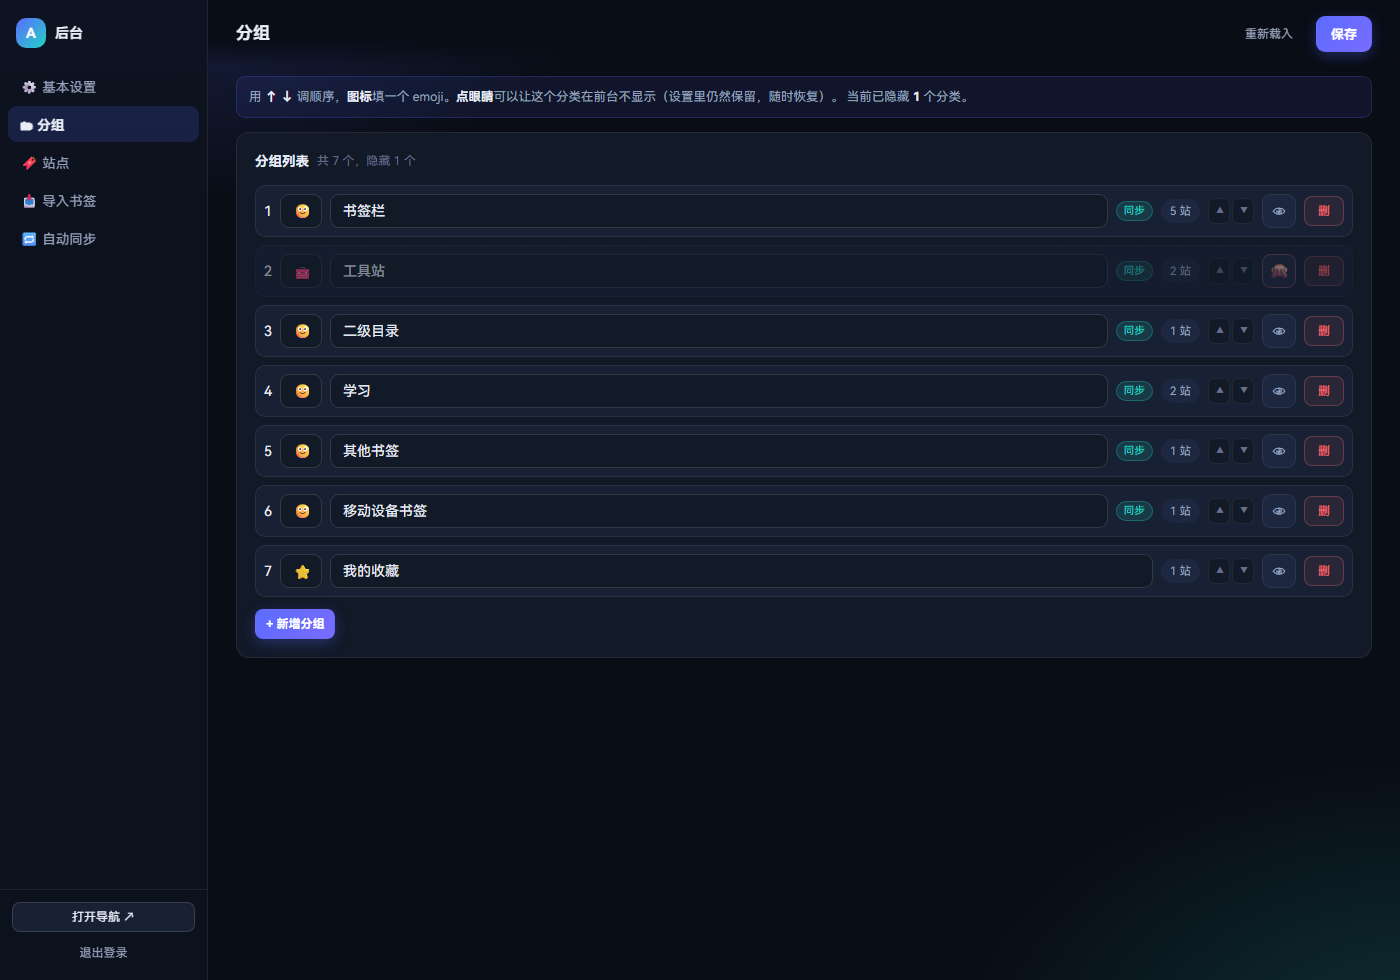
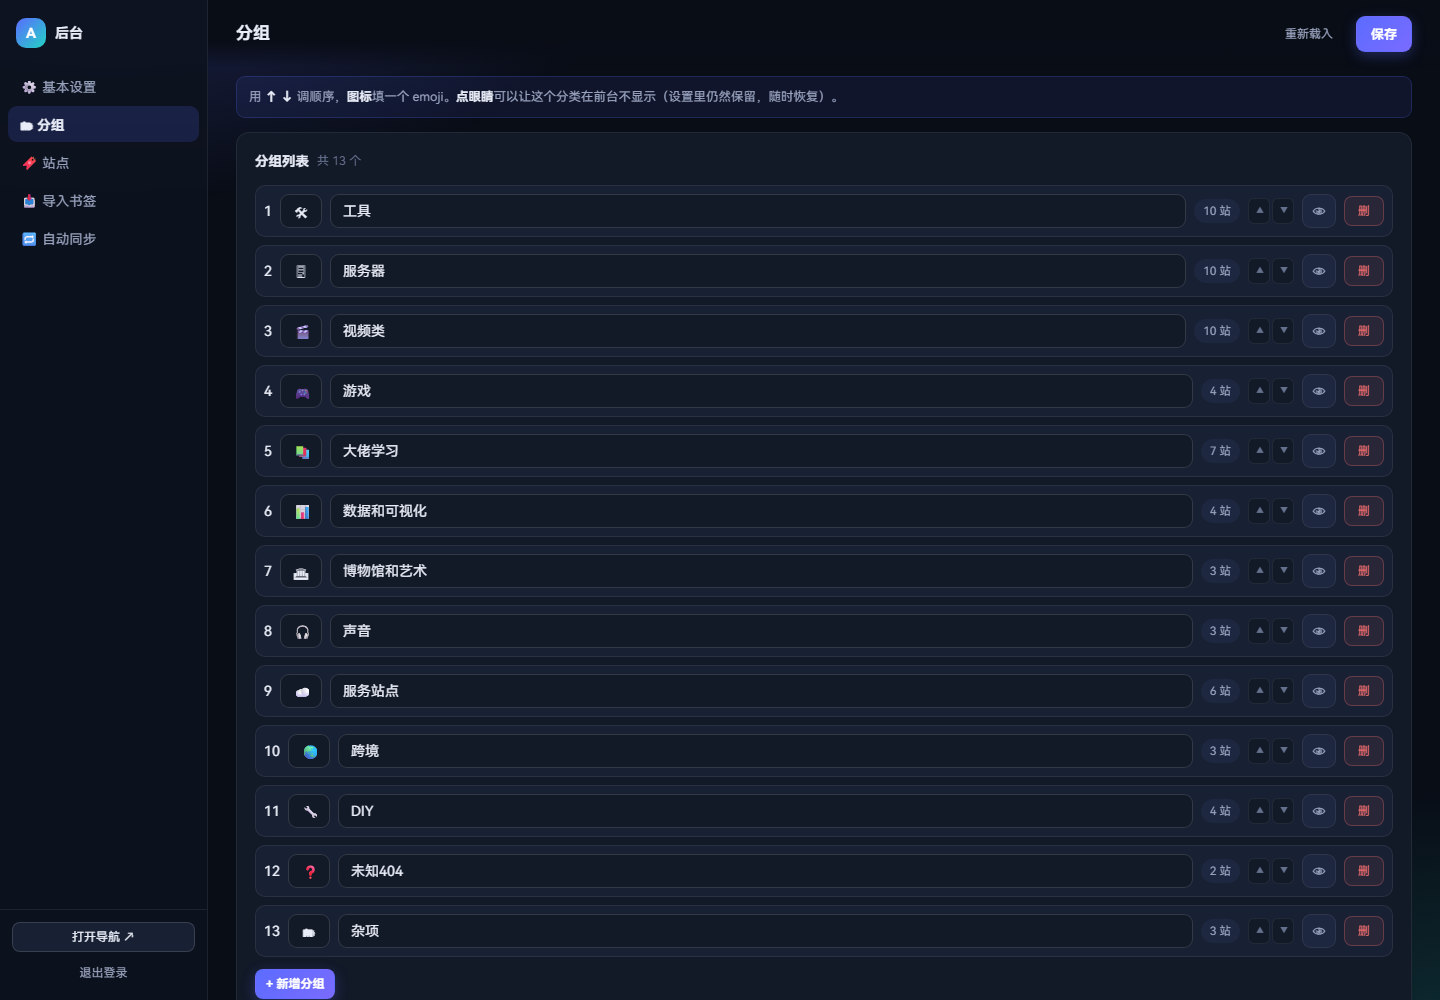
docs: 重出全部截图，品牌统一为 Awadaoh（前台+后台四张）

diff --git a/tools/make-demo-config.py b/tools/make-demo-config.py
@@ -1,0 +1,96 @@
+#!/usr/bin/env python3
+# -*- coding: utf-8 -*-
+"""生成截图用的演示配置（不碰真实 data/config.json）"""
+import json, os, sys
+
+OUT = sys.argv[1] if len(sys.argv) > 1 else ".shots/data/config.json"
+
+# (分类名, 图标 emoji, [(站点名, 域名)])
+DEMO = [
+    ("工具", "🛠", [("控制台", "console.cloud.google.com"), ("面板", "vercel.com"), ("日志", "grafana.com"),
+                    ("监控", "uptime.kuma.pet"), ("Docker", "hub.docker.com"), ("数据库", "supabase.com"),
+                    ("NAS", "synology.com"), ("图表", "excalidraw.com"), ("终端", "iterm2.com"), ("代理", "clash.razord.top")]),
+    ("服务器", "🖥", [("主机", "hetzner.com"), ("容器", "portainer.io"), ("用户", "auth0.com"), ("防火墙", "cloudflare.com"),
+                      ("定时", "crontab.guru"), ("流量", "analytics.google.com"), ("镜像", "quay.io"), ("运维", "ansible.com"),
+                      ("密钥", "1password.com"), ("备份", "restic.net")]),
+    ("视频类", "🎬", [("影视", "youtube.com"), ("直播", "twitch.tv"), ("录制", "obsproject.com"), ("下载", "qbittorrent.org"),
+                      ("媒体库", "jellyfin.org"), ("字幕", "subhd.tv"), ("播放器", "mpv.io"), ("追番", "bilibili.com"),
+                      ("投屏", "kodi.tv"), ("合集", "imdb.com")]),
+    ("游戏", "🎮", [("Steam", "store.steampowered.com"), ("Epic", "epicgames.com"), ("攻略", "gamefaqs.gamespot.com"),
+                    ("联机", "playstation.com")]),
+    ("大佬学习", "📚", [("MDN", "developer.mozilla.org"), ("Go 文档", "go.dev"), ("Python", "docs.python.org"),
+                        ("Rust", "doc.rust-lang.org"), ("Kaggle", "kaggle.com"), ("论文", "arxiv.org"),
+                        ("GitHub", "github.com")]),
+    ("数据和可视化", "📊", [("Superset", "superset.apache.org"), ("Metabase", "metabase.com"),
+                            ("Jupyter", "jupyter.org"), ("D3", "d3js.org")]),
+    ("博物馆和艺术", "🏛", [("The Met", "metmuseum.org"), ("MoMA", "moma.org"), ("故宫", "dpm.org.cn")]),
+    ("声音", "🎧", [("音乐", "music.163.com"), ("播客", "podcasts.apple.com"), ("电台", "radio.garden")]),
+    ("服务站点", "☁", [("Cloudflare", "dash.cloudflare.com"), ("GitHub Pages", "pages.github.com"),
+                        ("Vercel", "vercel.com"), ("Netlify", "netlify.com"), ("对象存储", "console.aws.amazon.com"),
+                        ("短信", "twilio.com")]),
+    ("跨境", "🌏", [("Stripe", "dashboard.stripe.com"), ("PayPal", "business.paypal.com"), ("汇率", "xe.com")]),
+    ("DIY", "🔧", [("树莓派", "raspberrypi.com"), ("ESPHome", "esphome.io"), ("Home Assistant", "home-assistant.io"),
+                   ("3D 打印", "printables.com")]),
+    ("未知404", "❓", [("书签残留", "example.com"), ("待整理", "example.org")]),
+    ("杂项", "🗂", [("待办", "todoist.com"), ("笔记", "notion.so"), ("密码", "bitwarden.com")]),
+]
+
+groups = []
+for gi, (gname, gicon, sites) in enumerate(DEMO):
+    sl = []
+    for si, (title, host) in enumerate(sites):
+        sl.append({
+            "id": "s%02d%02d" % (gi, si),
+            "title": title,
+            "url": "https://%s/" % host,
+            "desc": "",
+            "icon": "https://favicon.im/%s?larger=true" % host,
+            "private": False,
+        })
+    groups.append({"id": "g%02d" % gi, "name": gname, "icon": gicon, "order": gi,
+                   "hidden": False, "collapsed": False, "sites": sl})
+
+# 内网服务：用来展示「访客端打码」效果，域名/IP 都是常见私有段
+PRIVATE = [
+    ("服务器", [("NAS 面板", "http://192.168.1.10:5000/"),
+                ("路由器", "http://192.168.1.1/"),
+                ("PVE", "https://10.0.0.5:8006/")]),
+]
+for gname, sites in PRIVATE:
+    for g in groups:
+        if g["name"] != gname:
+            continue
+        for title, url in sites:
+            g["sites"].append({
+                "id": "p" + title[:2],
+                "title": title,
+                "url": url,
+                "desc": "",
+                "icon": "",
+                "private": True,
+            })
+
+cfg = {
+    "title": "Awadaoh 导航",
+    "subtitle": "自托管起始页",
+    "footer": "www.akkdiy.cn",
+    "footerUrl": "https://www.akkdiy.cn",
+    "password": "demo",
+    "theme": "dark",
+    "engines": [
+        {"id": "bing", "name": "Bing", "url": "https://www.bing.com/search?q=%s"},
+        {"id": "google", "name": "Google", "url": "https://www.google.com/search?q=%s"},
+        {"id": "baidu", "name": "百度", "url": "https://www.baidu.com/s?wd=%s"},
+    ],
+    "engine": "bing",
+    "privateMode": "mask",
+    "privateDns": False,
+    "groups": groups,
+    "sync": {"enabled": True, "path": "", "interval": 300, "mode": "merge",
+             "lastSync": 0, "lastResult": ""},
+}
+
+os.makedirs(os.path.dirname(OUT), exist_ok=True)
+with open(OUT, "w", encoding="utf-8") as f:
+    json.dump(cfg, f, ensure_ascii=False, indent=2)
+print("写入 %s：%d 个分类 / %d 个站点" % (OUT, len(groups), sum(len(g["sites"]) for g in groups)))

diff --git a/README.md b/README.md
@@ -47,7 +47,11 @@ cd awadaoh
 <table>
 <tr>
 <td><img src="./nav/doc/admin-groups.png" alt="分组管理" /></td>
+<td><img src="./nav/doc/admin-sites.png" alt="站点编辑" /></td>
+</tr>
+<tr>
 <td><img src="./nav/doc/admin-sync.png" alt="自动同步" /></td>
+<td><img src="./nav/doc/admin-private.png" alt="内网地址保护" /></td>
 </tr>
 </table>
 
